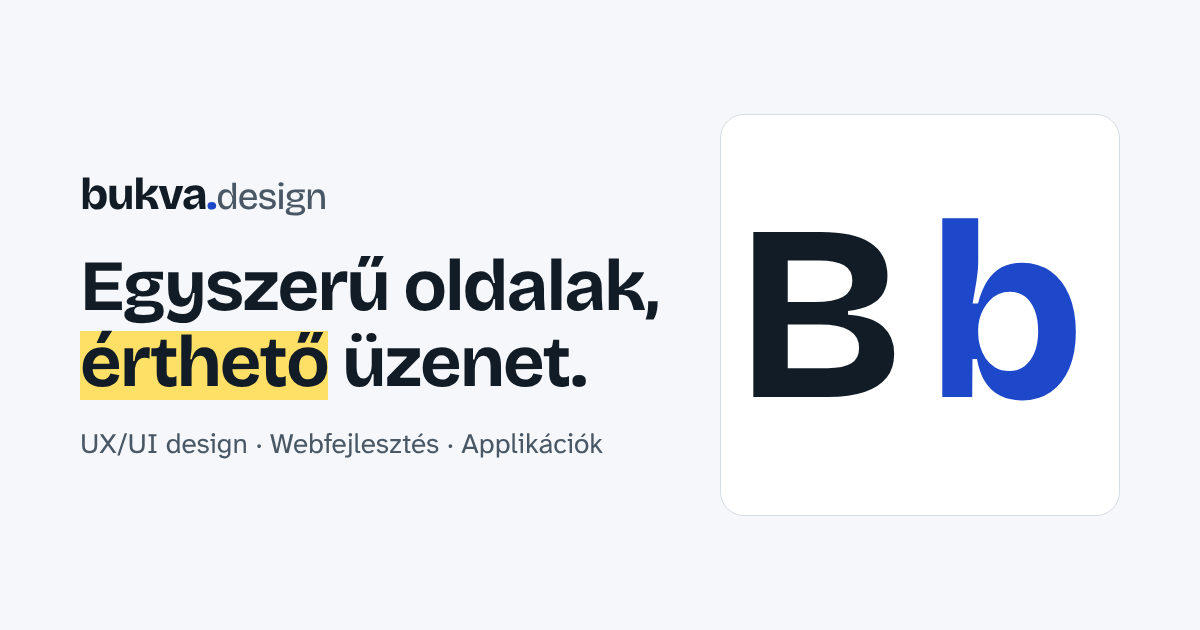
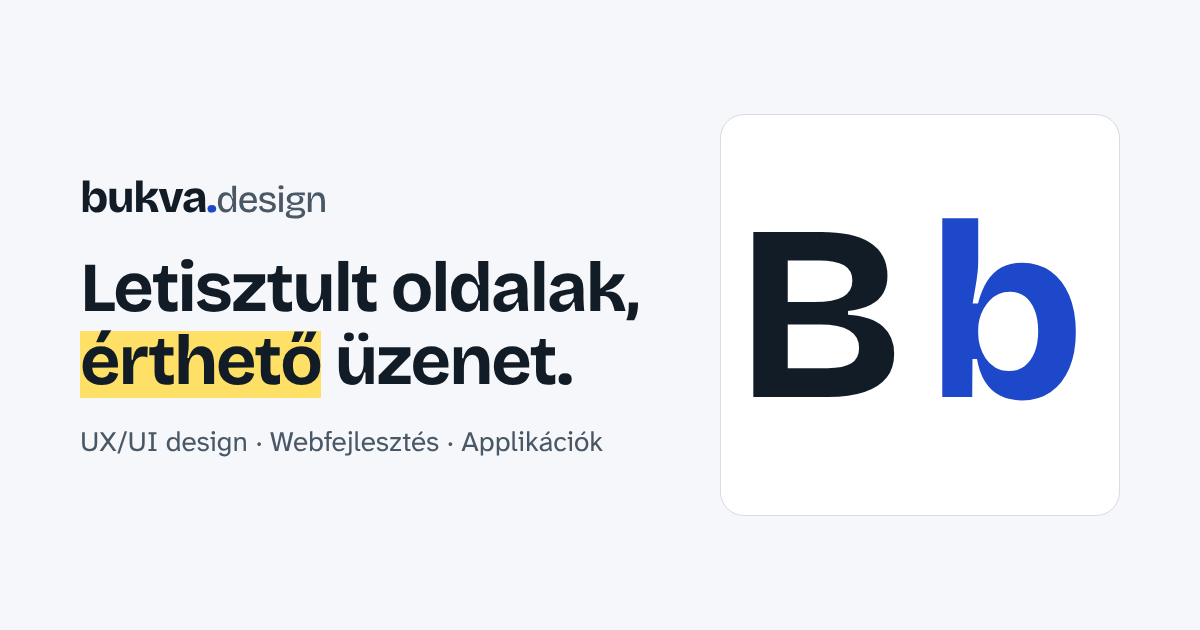
Add files via upload

Changed region(s): [[0.0617, 0.3921, 0.555, 0.6333], [0.0617, 0.6937, 0.5242, 0.7238], [0.0617, 0.2714, 0.2775, 0.3619]]

diff --git a/index.html b/index.html
@@ -53,7 +53,7 @@
   <div class="wrap hero-grid">
     <div class="hero-copy">
       <p class="eyebrow">UX/UI design · Webfejlesztés · Applikációk</p>
-      <h1 id="hero-title">Egyszerű oldalak, <span class="mark">érthető</span> üzenet.</h1>
+      <h1 id="hero-title">Letisztult oldalak, <span class="mark">érthető</span> üzenet.</h1>
       <p class="lead">Megtervezem és meg is építem a weboldalad, webshopod vagy applikációd. Gyors, akadálymentes, és a látogatóid azonnal megértik, mit kínálsz.</p>
       <div class="btn-row">
         <a class="btn btn-primary" href="kapcsolat.html">Ingyenes konzultációt kérek <svg viewBox="0 0 24 24" fill="none" stroke="currentColor" stroke-width="1.8" stroke-linecap="round" stroke-linejoin="round" aria-hidden="true" focusable="false"><path d="M5 12h14M13 6l6 6-6 6"/></svg></a>

diff --git a/en/index.html b/en/index.html
@@ -53,7 +53,7 @@
   <div class="wrap hero-grid">
     <div class="hero-copy">
       <p class="eyebrow">UX/UI design · Web development · Apps</p>
-      <h1 id="hero-title">Simple pages, <span class="mark">clear</span> message.</h1>
+      <h1 id="hero-title">Clean pages, <span class="mark">clear</span> message.</h1>
       <p class="lead">I design and build your website, webshop or app. Fast, accessible, and your visitors instantly understand what you offer.</p>
       <div class="btn-row">
         <a class="btn btn-primary" href="contact.html">Book a free consultation <svg viewBox="0 0 24 24" fill="none" stroke="currentColor" stroke-width="1.8" stroke-linecap="round" stroke-linejoin="round" aria-hidden="true" focusable="false"><path d="M5 12h14M13 6l6 6-6 6"/></svg></a>
